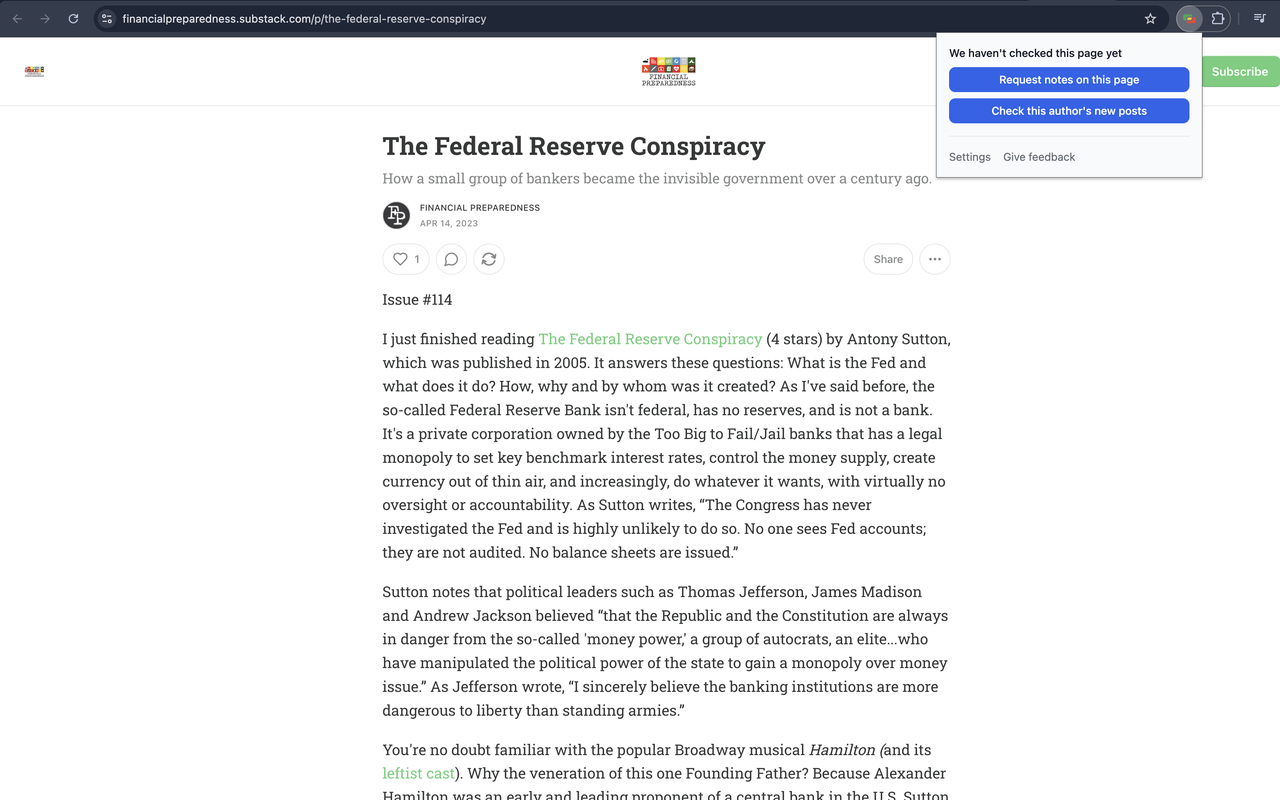
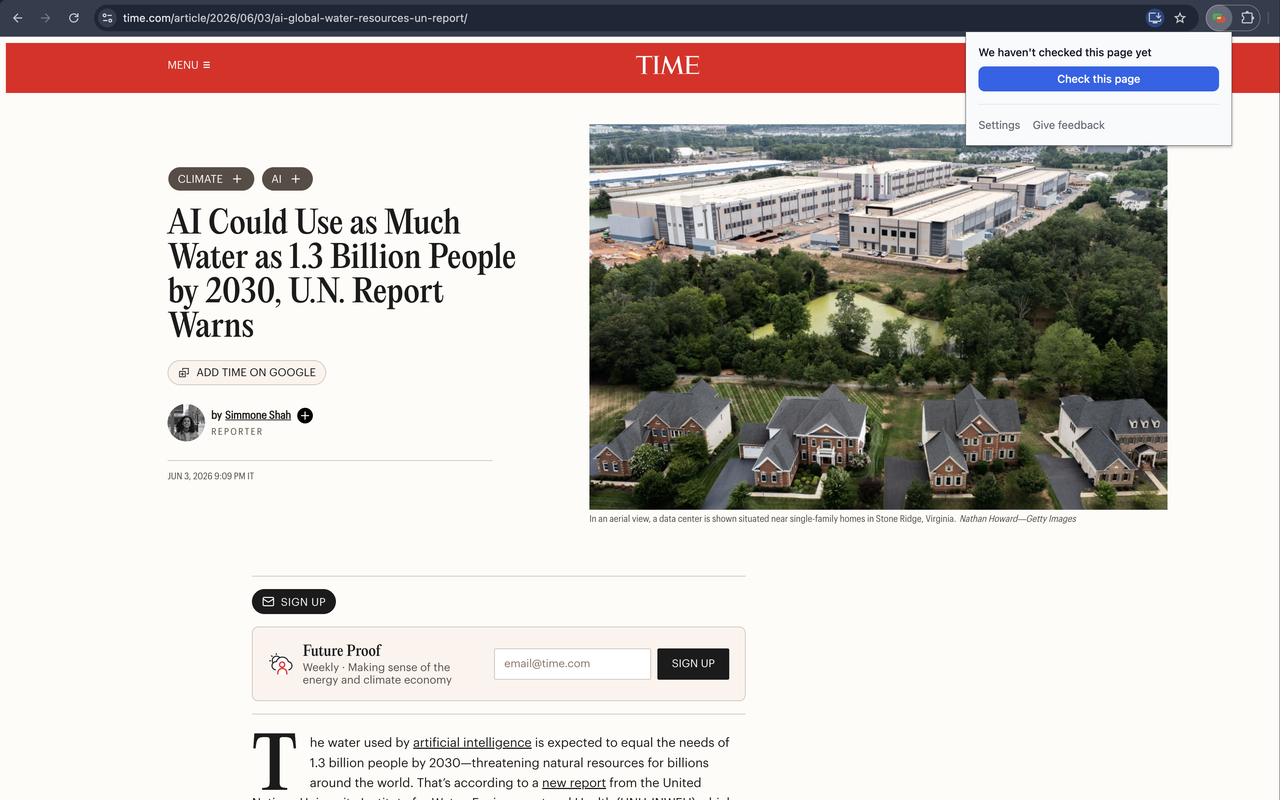
Retake the popup screenshot with the Check this page button for the stores and the homepage (GOO-477)

diff --git a/src/everything-web/src/pages/home/content.ts b/src/everything-web/src/pages/home/content.ts
@@ -40,7 +40,7 @@ export const SCREENSHOTS: readonly Screenshot[] = [
   },
   {
     src: requestNotes,
-    alt: "A Substack post we have not checked yet. The extension's toolbar menu offers to request notes on this page and to check the author's new posts.",
+    alt: "A TIME article about AI's water use that we have not checked yet. The extension's toolbar menu offers to check this page.",
     caption: "Check any webpage",
   },
 ];

diff --git a/docs/extension-release.md b/docs/extension-release.md
@@ -171,9 +171,11 @@ the colour of the box's top-left pixel until the shape is 16:10, and only then
 scales evenly. So choose a crop box that cuts away empty page or a black video
 bar, and let the padding handle the rest.
 
-The order as of version 0.4.0:
+The order as of version 0.5.0:
 
 1. A note card next to a Substack post.
 2. A note on a Dwarkesh Podcast video on YouTube.
 3. The "Write a note" form on a highlighted sentence.
-4. The toolbar popup on a page we have not checked yet, offering "Request notes on this page".
+4. The toolbar popup on a TIME article about AI's water use that we have not
+   checked yet, offering "Check this page". The commonnotes.net homepage shows
+   the same picture as `src/everything-web/src/assets/screenshots/request-notes.webp`.
